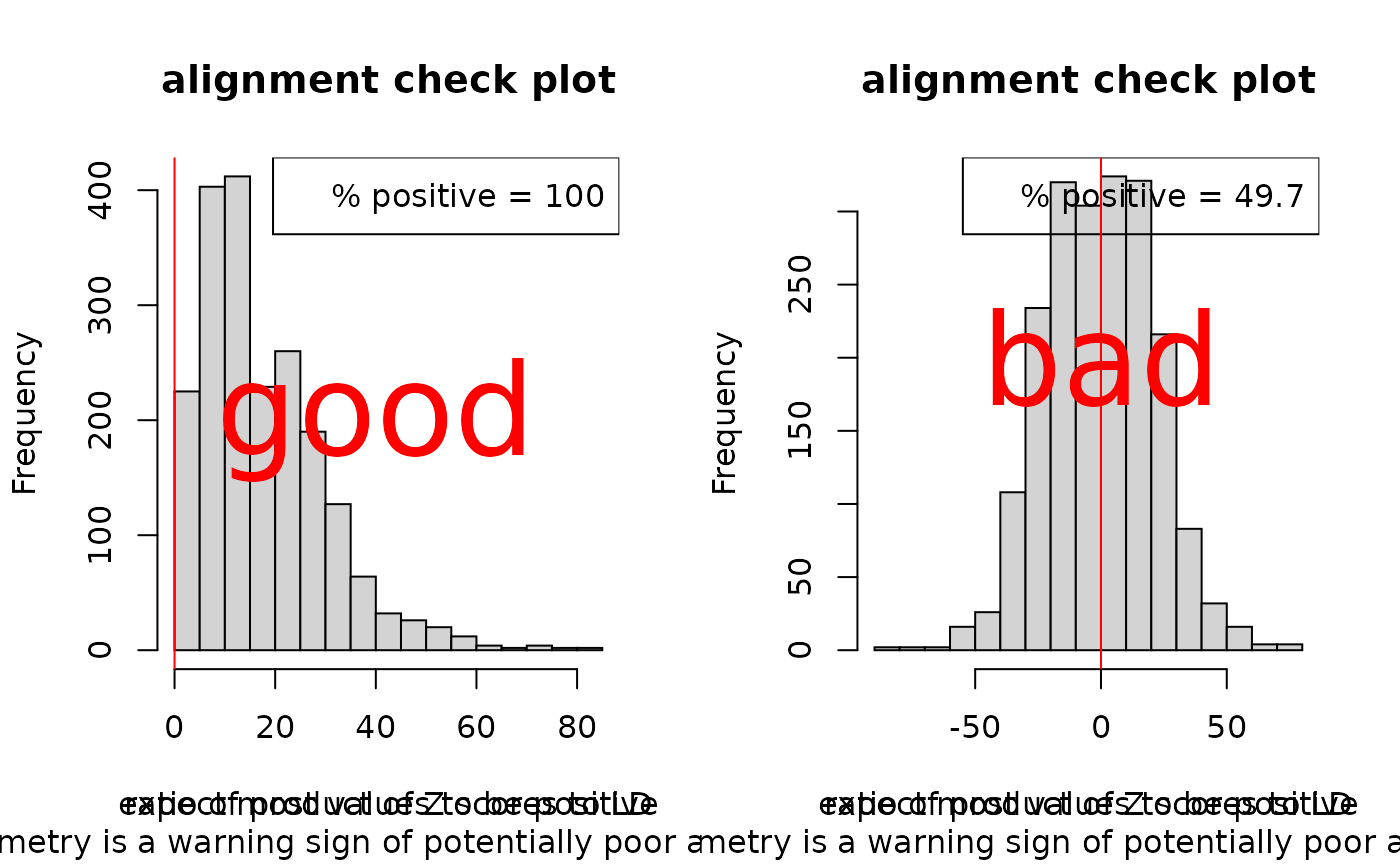
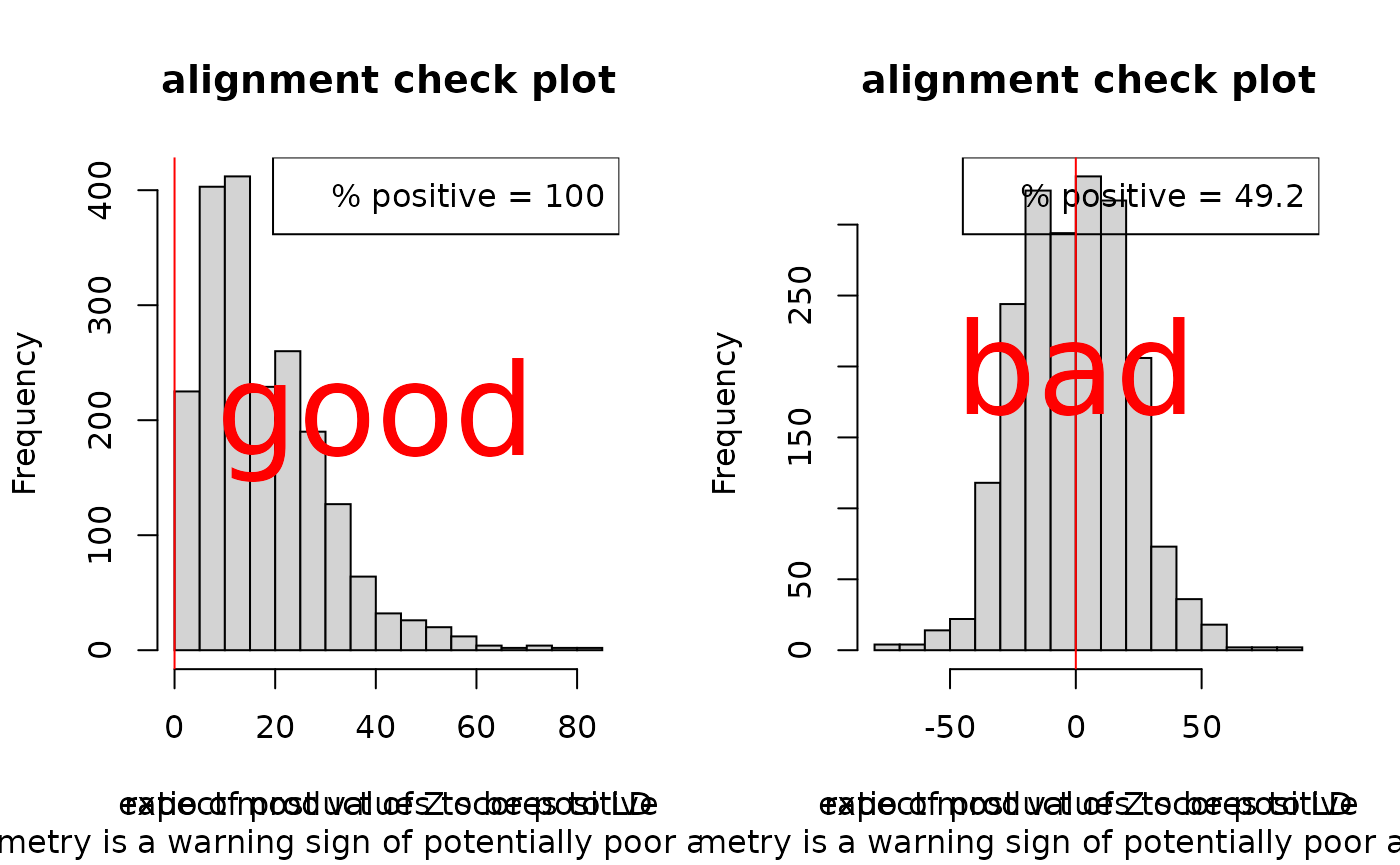
fix cran stuff

diff --git a/docs/articles/a02_data.html b/docs/articles/a02_data.html
@@ -104,7 +104,7 @@
       <h1 data-toc-skip>Coloc: data structures</h1>
                         <h4 class="author">Chris Wallace</h4>
             
-            <h4 class="date">2021-06-08</h4>
+            <h4 class="date">2021-06-09</h4>
       
       <small class="dont-index">Source: <a href="https://github.com/chr1swallace/coloc/blob/master/vignettes/a02_data.Rmd"><code>vignettes/a02_data.Rmd</code></a></small>
       <div class="hidden name"><code>a02_data.Rmd</code></div>
@@ -116,7 +116,7 @@
 <div id="data-structures" class="section level1">
 <h1 class="hasAnchor">
 <a href="#data-structures" class="anchor"></a>Data structures</h1>
-<p>The enumeration approaches to coloc <a href="a03_enumeration.Rmd"><code>coloc.abf</code></a> and <a href="a06_susie.html"><code>coloc.susie</code></a> require the same data format. To be flexible, <code>coloc.abf</code> allows a wider variety of inputs, which can sometimes be confusing. This document aims to set out what ideal and acceptable data structures are, as well as covering some points on how you should select the SNPs for study.</p>
+<p>The enumeration approaches to coloc <a href="a03_enumeration.Rmd"><code>coloc.abf</code></a> and <a href="a06_susie.Rmd"><code>coloc.susie</code></a> require the same data format. To be flexible, <code>coloc.abf</code> allows a wider variety of inputs, which can sometimes be confusing. This document aims to set out what ideal and acceptable data structures are, as well as covering some points on how you should select the SNPs for study.</p>
 <div id="first-select-the-snps-to-study-" class="section level2">
 <h2 class="hasAnchor">
 <a href="#first-select-the-snps-to-study-" class="anchor"></a>First: select the SNPs to study.</h2>
@@ -363,7 +363,7 @@
 <div class="sourceCode" id="cb29"><pre class="downlit sourceCode r">
 <code class="sourceCode R"><span class="fu"><a href="https://rdrr.io/r/graphics/text.html">text</a></span><span class="op">(</span><span class="fl">40</span>,<span class="fl">200</span>,<span class="st">"good"</span>,col<span class="op">=</span><span class="st">"red"</span>,cex<span class="op">=</span><span class="fl">4</span><span class="op">)</span>
 <span class="fu"><a href="../reference/check_alignment.html">check_alignment</a></span><span class="op">(</span><span class="va">badD</span><span class="op">)</span></code></pre></div>
-<pre><code>## [1] 0.4965243</code></pre>
+<pre><code>## [1] 0.4915591</code></pre>
 <div class="sourceCode" id="cb31"><pre class="downlit sourceCode r">
 <code class="sourceCode R"><span class="fu"><a href="https://rdrr.io/r/graphics/text.html">text</a></span><span class="op">(</span><span class="fl">0</span>,<span class="fl">200</span>,<span class="st">"bad"</span>,col<span class="op">=</span><span class="st">"red"</span>,cex<span class="op">=</span><span class="fl">4</span><span class="op">)</span></code></pre></div>
 <p><img src="a02_data_files/figure-html/unnamed-chunk-8-1.png" width="700"></p>

diff --git a/docs/reference/coloc-package.html b/docs/reference/coloc-package.html
@@ -48,7 +48,7 @@
 
 <meta property="og:title" content="Colocalisation tests of two genetic traits — coloc-package" />
 <meta property="og:description" content="Performs the colocalisation tests described in Plagnol et al (2009) and
-Wallace et al (in preparation) and draws some plots." />
+Wallace et al (2020) and draws some plots." />
 <meta property="og:image" content="https://chr1swallace.github.io/coloc/logo.png" />
 
 
@@ -151,29 +151,14 @@ Wallace et al (in preparation) and draws some plots." />
 
     <div class="ref-description">
     <p>Performs the colocalisation tests described in Plagnol et al (2009) and
-Wallace et al (in preparation) and draws some plots.</p>
+Wallace et al (2020) and draws some plots.</p>
     </div>
 
 
 
-    <h2 class="hasAnchor" id="details"><a class="anchor" href="#details"></a>Details</h2>
-
-    <p><code>coloc.test()</code> tests for colocalisation and returns an object of class
-<code>coloc</code>.</p>
-    <h2 class="hasAnchor" id="references"><a class="anchor" href="#references"></a>References</h2>
-
-    <p>Plagnol et al (2009).  Statistical independence of the
-colocalized association signals for type 1 diabetes and RPS26 gene expression
-on chromosome 12q13. Biostatistics 10:327-34.</p>
-<p><a href='http://www.ncbi.nlm.nih.gov/pubmed/19039033'>http://www.ncbi.nlm.nih.gov/pubmed/19039033</a></p>
-<p>Wallace et al (2013).  Statistical Testing of Shared Genetic Control
-for Potentially Related Traits. Genetic Epidemiology 37:802-813.</p>
-<p><a href='http://www.ncbi.nlm.nih.gov/pmc/articles/PMC4158901/'>http://www.ncbi.nlm.nih.gov/pmc/articles/PMC4158901/</a></p>
-<p>Giambartolomei et al (2014).  Bayesian Test for Colocalisation between Pairs of Genetic Association Studies Using Summary Statistics.  PLOS Genet e1004383.</p>
-<p><a href='http://www.ncbi.nlm.nih.gov/pmc/articles/PMC4022491/'>http://www.ncbi.nlm.nih.gov/pmc/articles/PMC4022491/</a></p>
     <h2 class="hasAnchor" id="author"><a class="anchor" href="#author"></a>Author</h2>
 
-    <p>Chris Wallace <a href='mailto:chris.wallace@cimr.cam.ac.uk'>chris.wallace@cimr.cam.ac.uk</a></p>
+    <p>Chris Wallace <a href='mailto:cew54@cam.ac.uk'>cew54@cam.ac.uk</a></p>
 
   </div>
   <div class="col-md-3 hidden-xs hidden-sm" id="pkgdown-sidebar">

diff --git a/docs/articles/a01_intro.html b/docs/articles/a01_intro.html
@@ -104,7 +104,7 @@
       <h1 data-toc-skip>Coloc: a package for colocalisation analyses</h1>
                         <h4 class="author">Chris Wallace</h4>
             
-            <h4 class="date">2021-06-08</h4>
+            <h4 class="date">2021-06-09</h4>
       
       <small class="dont-index">Source: <a href="https://github.com/chr1swallace/coloc/blob/master/vignettes/a01_intro.Rmd"><code>vignettes/a01_intro.Rmd</code></a></small>
       <div class="hidden name"><code>a01_intro.Rmd</code></div>
@@ -150,9 +150,9 @@
 <div id="footnotes" class="section level1">
 <h1 class="hasAnchor">
 <a href="#footnotes" class="anchor"></a>Footnotes</h1>
-<p><sup><a id="fn.1" href="#fnr.1">1</a></sup><a href="https://www.ncbi.nlm.nih.gov/pubmed/19039033/" class="uri">https://www.ncbi.nlm.nih.gov/pubmed/19039033/</a></p>
+<p><sup><a id="fn.1" href="#fnr.1">1</a></sup><a href="https://pubmed.ncbi.nlm.nih.gov/19039033/" class="uri">https://pubmed.ncbi.nlm.nih.gov/19039033/</a></p>
 <p><sup><a id="fn.2" href="#fnr.2">2</a></sup><a href="https://doi.org/10.1002/gepi.21765" class="uri">https://doi.org/10.1002/gepi.21765</a></p>
-<p><sup><a id="fn.3" href="#fnr.3">3</a></sup><a href="https://www.ncbi.nlm.nih.gov/pubmed/18642345/" class="uri">https://www.ncbi.nlm.nih.gov/pubmed/18642345/</a></p>
+<p><sup><a id="fn.3" href="#fnr.3">3</a></sup><a href="https://pubmed.ncbi.nlm.nih.gov/18642345/" class="uri">https://pubmed.ncbi.nlm.nih.gov/18642345/</a></p>
 <p><sup><a id="fn.4" href="#fnr.4">4</a></sup><a href="https://journals.plos.org/plosgenetics/article?id=10.1371/journal.pgen.1004383" class="uri">https://journals.plos.org/plosgenetics/article?id=10.1371/journal.pgen.1004383</a></p>
 <p><sup><a id="fn.5" href="#fnr.5">5</a></sup><a href="https://journals.plos.org/plosgenetics/article?id=10.1371/journal.pgen.1005272" class="uri">https://journals.plos.org/plosgenetics/article?id=10.1371/journal.pgen.1005272</a></p>
 <p><sup><a id="fn.5" href="#fnr.6">6</a></sup><a href="https://rss.onlinelibrary.wiley.com/doi/10.1111/rssb.12388" class="uri">https://rss.onlinelibrary.wiley.com/doi/10.1111/rssb.12388</a></p>

diff --git a/docs/index.html b/docs/index.html
@@ -154,7 +154,7 @@ install_github("chr1swallace/coloc",build_vignettes=TRUE)</code></pre>
 <p>For usage, please see the vignette at <a href="https://chr1swallace.github.io/coloc" class="uri">https://chr1swallace.github.io/coloc</a></p>
 <p>Key previous references are:</p>
 <ul>
-<li>original propostion of proportional colocalisation <a href="https://www.ncbi.nlm.nih.gov/pubmed/19039033">Plagnol et al (2009)</a>
+<li>original propostion of proportional colocalisation <a href="https://pubmed.ncbi.nlm.nih.gov/19039033/">Plagnol et al (2009)</a>
 </li>
 <li>proportional colocalisation with type 1 error rate control <a href="https://onlinelibrary.wiley.com/doi/abs/10.1002/gepi.21765">Wallace et al (2013)</a>
 </li>

diff --git a/docs/articles/a05_conditioning.html b/docs/articles/a05_conditioning.html
@@ -104,7 +104,7 @@
       <h1 data-toc-skip>DEPRECATED Coloc: relaxing the single causal variant assumption</h1>
                         <h4 class="author">Chris Wallace</h4>
             
-            <h4 class="date">2021-06-08</h4>
+            <h4 class="date">2021-06-09</h4>
       
       <small class="dont-index">Source: <a href="https://github.com/chr1swallace/coloc/blob/master/vignettes/a05_conditioning.Rmd"><code>vignettes/a05_conditioning.Rmd</code></a></small>
       <div class="hidden name"><code>a05_conditioning.Rmd</code></div>

diff --git a/docs/articles/a03_enumeration.html b/docs/articles/a03_enumeration.html
@@ -104,7 +104,7 @@
       <h1 data-toc-skip>Coloc: under a single causal variant assumption</h1>
                         <h4 class="author">Chris Wallace</h4>
             
-            <h4 class="date">2021-06-08</h4>
+            <h4 class="date">2021-06-09</h4>
       
       <small class="dont-index">Source: <a href="https://github.com/chr1swallace/coloc/blob/master/vignettes/a03_enumeration.Rmd"><code>vignettes/a03_enumeration.Rmd</code></a></small>
       <div class="hidden name"><code>a03_enumeration.Rmd</code></div>

diff --git a/docs/articles/a06_SuSiE.html b/docs/articles/a06_SuSiE.html
@@ -104,7 +104,7 @@
       <h1 data-toc-skip>Coloc: using SuSiE to relax the single causal variant assumption</h1>
                         <h4 class="author">Chris Wallace</h4>
             
-            <h4 class="date">2021-06-08</h4>
+            <h4 class="date">2021-06-09</h4>
       
       <small class="dont-index">Source: <a href="https://github.com/chr1swallace/coloc/blob/master/vignettes/a06_SuSiE.Rmd"><code>vignettes/a06_SuSiE.Rmd</code></a></small>
       <div class="hidden name"><code>a06_SuSiE.Rmd</code></div>

diff --git a/docs/articles/a04_sensitivity.html b/docs/articles/a04_sensitivity.html
@@ -104,7 +104,7 @@
       <h1 data-toc-skip>Coloc: sensitivity to prior values</h1>
                         <h4 class="author">Chris Wallace</h4>
             
-            <h4 class="date">2021-06-08</h4>
+            <h4 class="date">2021-06-09</h4>
       
       <small class="dont-index">Source: <a href="https://github.com/chr1swallace/coloc/blob/master/vignettes/a04_sensitivity.Rmd"><code>vignettes/a04_sensitivity.Rmd</code></a></small>
       <div class="hidden name"><code>a04_sensitivity.Rmd</code></div>

diff --git a/README.md b/README.md
@@ -63,7 +63,7 @@ vignette("a06_SuSiE",package="coloc")
 For usage, please see the vignette at https://chr1swallace.github.io/coloc
 
 Key previous references are:
-- original propostion of proportional colocalisation [Plagnol et al (2009)](https://www.ncbi.nlm.nih.gov/pubmed/19039033)
+- original propostion of proportional colocalisation [Plagnol et al (2009)](https://pubmed.ncbi.nlm.nih.gov/19039033/)
 - proportional colocalisation with type 1 error rate control [Wallace et al (2013)](https://onlinelibrary.wiley.com/doi/abs/10.1002/gepi.21765)
 - colocalisation by enumerating all the possible causal SNP configurations between two traits, assuming at most one causal variant per trait [Giambartolomei et al (2013)](https://journals.plos.org/plosgenetics/article?id=10.1371/journal.pgen.1004383)
 - Thoughts about priors in coloc are described in [Wallace C (2020) Eliciting priors and relaxing the single causal variant assumption in colocalisation analyses. PLOS Genetics 16(4): e1008720](https://doi.org/10.1371/journal.pgen.1008720)
